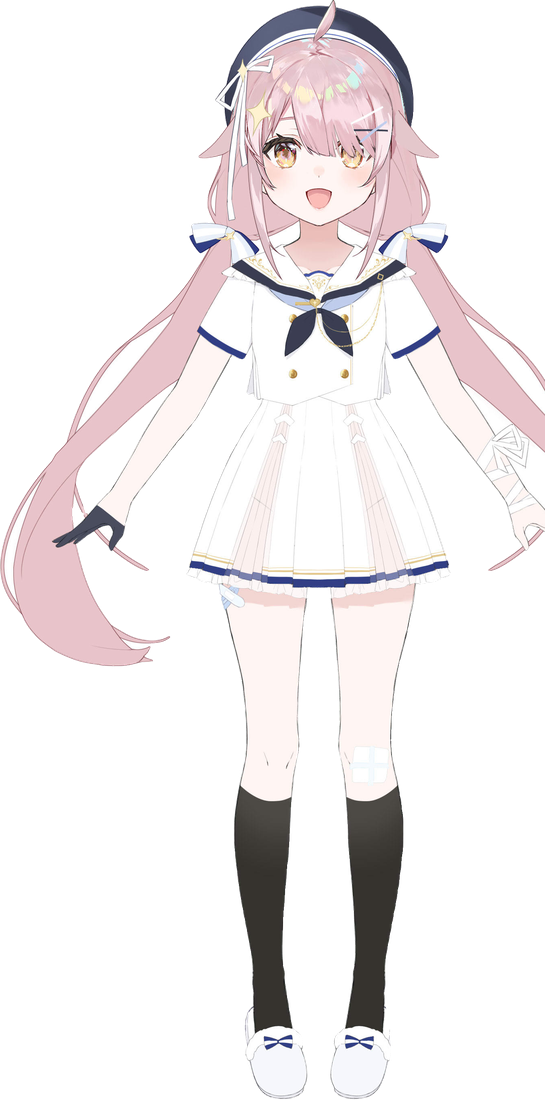
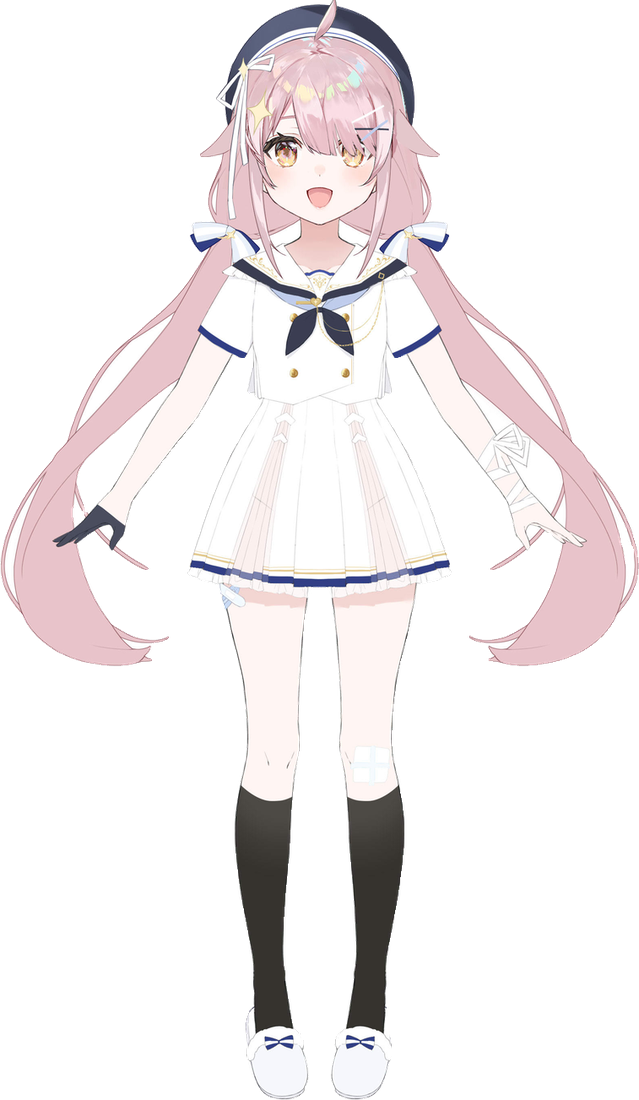
fix: 拖动后残留压扁 + 重抠魔女/保健委员立绘
- 拖动开始/结束/pointercancel 都调用 resetPressFx()，不会再停在 scaleY(.9)
- 魔女、保健委员重新从官方 sheet 整体抠图，补回右侧被裁掉的一截（625×1100 / 639×1100）

Changed region(s): [[0.0, 0.0, 1.0, 1.0], [0.0312, 0.5564, 0.0936, 0.5873], [0.0936, 0.5873, 0.1248, 0.6182]]

diff --git a/lib/whale-widget.js b/lib/whale-widget.js
@@ -569,6 +569,7 @@
       var dy = e.clientY - dragStart.sy
       if (!dragMoved && Math.abs(dx) + Math.abs(dy) > 5) {
         dragMoved = true
+        resetPressFx()         // 一旦开始拖动就恢复原状，拖动过程中保持正常比例
         root.classList.add('tp-dragging')
         if (menuOpen) closeMenu()
         playRandomPress()      // 拖拽开始也算一次按压
@@ -583,6 +584,7 @@
         setPos(root.offsetLeft, root.offsetTop, true)
         snapToEdge()
         if (menuOpen) positionMenu()
+        resetPressFx()
       } else {
         touch()               // 左键单击 = 摸一下
         pressUpFx()
@@ -590,7 +592,9 @@
       dragStart = null
     })
     stage.addEventListener('pointercancel', function () {
-      dragging = false; dragStart = null; root.classList.remove('tp-dragging')
+      dragging = false; dragStart = null
+      root.classList.remove('tp-dragging')
+      resetPressFx()
     })
     stage.addEventListener('contextmenu', function (e) {
       e.preventDefault()
@@ -626,6 +630,15 @@
       stage.classList.add('tp-tap')
       setTimeout(function () { if (stage) stage.classList.remove('tp-tap') }, 520)
     }, 150)
+  }
+
+  // 还原到未按压的形状（拖动/取消时用，不做回弹动画）
+  function resetPressFx() {
+    if (!stage) return
+    clearTimeout(tapTimer)
+    stage.classList.remove('tp-tap')
+    stage.style.transition = 'transform .16s ease-out'
+    stage.style.transform = ''
   }
 
   function touch() {
